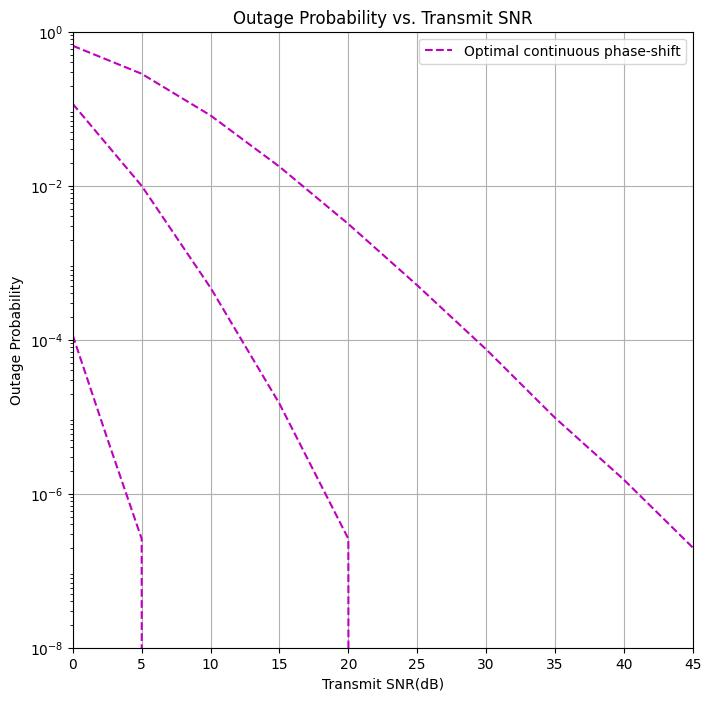
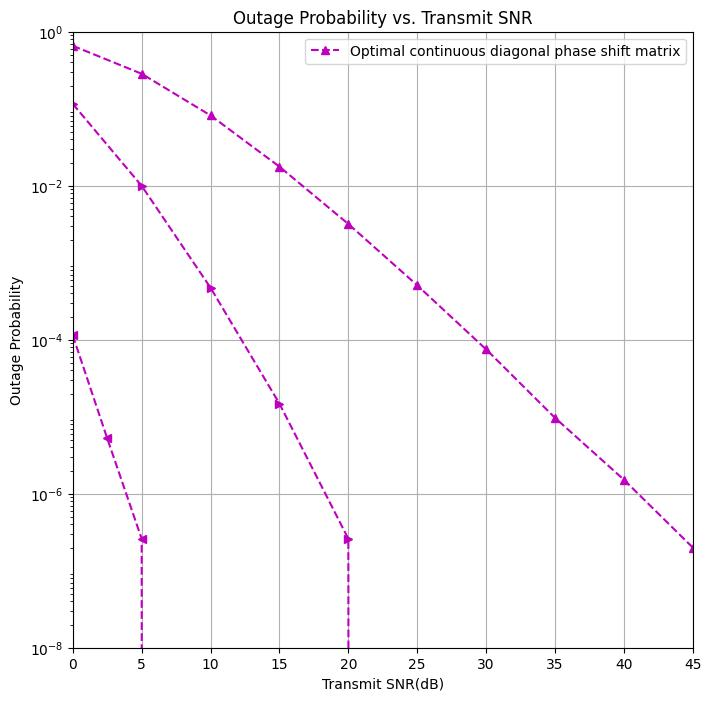
2024.08.13(THU)_v1

diff --git a/SystemModel.py b/SystemModel.py
@@ -29,15 +29,6 @@ def ReceivedSignal(P, eta, h_SI, Phi, h_ID, x_s, w_D):
     return ReceivedSignal
 
 
-def phase_error_generator(N, L):
-    # Phase errors uniformly distributed in [-pi/L, pi/L]
-    phase_errors = np.random.uniform(-np.pi / L, np.pi / L, N)
-
-    Phi = np.diag(np.exp(1j * phase_errors))
-
-    return phase_errors, Phi
-
-
 def SNR_calc(P, delta, eta, h_SI, Phi, h_ID, Omega_S, Omega_I):
     rho = P / delta ** 2
     g_n = np.abs(h_SI * h_ID) @ Phi / np.sqrt(Omega_S * Omega_I)  # normalized channel coefficient
@@ -47,7 +38,15 @@ def SNR_calc(P, delta, eta, h_SI, Phi, h_ID, Omega_S, Omega_I):
     return g_n, ReceivedSNR
 
 
-'''
+def get_phase_error(N, L):
+    # Phase errors uniformly distributed in [-pi/L, pi/L]
+    phase_errors = np.random.uniform(-np.pi / L, np.pi / L, N)
+
+    Phi = np.diag(np.exp(1j * phase_errors))
+
+    return phase_errors, Phi
+
+
 def cdf_gn_squared(x):
     if x <= 0:
         return 0.0
@@ -56,10 +55,9 @@ def cdf_gn_squared(x):
         return - x * np.log(x)  # When the x value is almost 0
     else:
         return 1 - 2 * np.sqrt(x) * kn(1, 2 * np.sqrt(x))
-'''
 
 
-def outage_probability(L, N, P, delta, eta, Omega_S, Omega_I, threshold, rho):
+def sc_outage_probability(L, N, P, delta, eta, Omega_S, Omega_I, threshold, rho):
     prob_count = 0
 
     num_simulations = int(1e+5)
@@ -68,7 +66,7 @@ def outage_probability(L, N, P, delta, eta, Omega_S, Omega_I, threshold, rho):
         pbar.set_description(f"Outage simulation when L={L} N={N}")
         # 변수 초기화
         h_SI, h_ID, _, _ = init_system(N, Omega_S, Omega_I, delta)
-        _, Phi = phase_error_generator(N, L)
+        _, Phi = get_phase_error(N, L)
         g_n, _ = SNR_calc(P, delta, eta, h_SI, Phi, h_ID, Omega_S, Omega_I)
 
         G_N = np.sum(g_n)
@@ -106,35 +104,40 @@ def opt_sc_outage_probability(N, P, delta, eta, Omega_S, Omega_I, threshold, rho
     return P_G_N
 
 
-def calc_opt_fc_phase(h_SI, h_ID):
-    h_SI = h_SI / np.linalg.norm(h_SI)
-    h_ID = h_ID / np.linalg.norm(h_ID)
+'''
+The above part is implemented according to the reference.
 
-    S = np.outer(h_ID.conjugate().T, h_SI.conjugate().T) + np.outer(h_SI.conjugate(), h_ID.conjugate())
-
-    # Takagi factorization
-    a = svd(S)
-
-    Q = a[0]
-    Sigma = a[1]
-    QT = a[2].T
-
-    Phi = Q @ QT
-
-    return Phi
+Assuming we know the channel, we can find the optimal phase, and map this optimal phase to the quantized phase level.
+'''
 
 
-def opt_fc_outage_probability(N, P, delta, eta, Omega_S, Omega_I, threshold, rho):
+def get_phase(L, N, h_SI, h_ID):
+    quant_levels = np.linspace(0, 2 * np.pi, L, endpoint=False)
+
+    opt_phi = -np.angle(h_SI * h_ID)
+    opt_phi = np.mod(opt_phi, 2 * np.pi)
+
+    phi_quantized = np.zeros_like(opt_phi)  # 같은 크기의 zero matrix 생성
+    for n in range(N):
+        # Find the closest quantization level
+        idx = np.argmin(np.abs(quant_levels - opt_phi[n]))
+        phi_quantized[n] = quant_levels[idx]
+
+    Phi = np.diag(np.exp(1j * phi_quantized))
+
+    return opt_phi, Phi
+
+
+def outage_probability(L, N, P, delta, eta, Omega_S, Omega_I, threshold, rho):
     prob_count = 0
 
     num_simulations = int(1e+5)
     pbar = tqdm(range(num_simulations))
-    for i in pbar:
-        pbar.set_description(f"Outage simulation when N={N}")
+    for _ in pbar:
+        pbar.set_description(f"Outage simulation when L={L} N={N}")
         # 변수 초기화
         h_SI, h_ID, _, _ = init_system(N, Omega_S, Omega_I, delta)
-        # Phi = calc_opt_fc_phase(h_SI, h_ID)
-        Phi = np.exp(1j * np.zeros(N * N)).reshape(N, N)
+        _, Phi = get_phase(L, N, h_SI, h_ID)
         g_n, _ = SNR_calc(P, delta, eta, h_SI, Phi, h_ID, Omega_S, Omega_I)
 
         G_N = np.sum(g_n)
@@ -145,5 +148,28 @@ def opt_fc_outage_probability(N, P, delta, eta, Omega_S, Omega_I, threshold, rho
 
     # Outage probability
     P_G_N = prob_count / num_simulations
+    return P_G_N
 
+
+def opt_outage_probability(N, P, delta, eta, Omega_S, Omega_I, threshold, rho):
+    prob_count = 0
+
+    num_simulations = int(1e+5)
+    pbar = tqdm(range(num_simulations))
+    for _ in pbar:
+        pbar.set_description(f"Outage simulation when N={N}")
+        # 변수 초기화
+        h_SI, h_ID, _, _ = init_system(N, Omega_S, Omega_I, delta)
+        opt_phi = -np.angle(h_SI * h_ID)
+        opt_phi = np.mod(opt_phi, 2 * np.pi)
+        g_n, _ = SNR_calc(P, delta, eta, h_SI, opt_phi, h_ID, Omega_S, Omega_I)
+
+        G_N = np.sum(g_n)
+        G_N_sq = np.abs(G_N) ** 2
+
+        if G_N_sq < threshold / rho:
+            prob_count += 1
+
+    # Outage probability
+    P_G_N = prob_count / num_simulations
     return P_G_N

diff --git a/main.py b/main.py
@@ -6,7 +6,8 @@ from SystemModel import *
 from reproduce import *
 from simulations import *
 
-'''********************* hyperparameter  *********************'''
+'''********************* Single-Connected  *********************'''
+'''********************** hyperparameter  **********************'''
 Omega_S = 1  # Variance of h_SI (channel for Source - RIS)
 Omega_I = 0.5  # Variance of h_ID (channel for RIS-Destination)
 P = 1  # Transmit power
@@ -17,27 +18,59 @@ R0 = 1  # data rate in bits per channel use(BPCU)
 epsilon_0 = (2 ** R0 - 1) / (eta ** 2 * Omega_S * Omega_I)
 
 
-'''********************* Run  *********************'''
+'''**************************** Run  ***************************'''
 # outage_prob_simulation(Omega_S, Omega_I, P, eta, delta, epsilon_0)
 
 # opt_sc_outage_prob_simulation(Omega_S, Omega_I, P, eta, delta, epsilon_0)
-
 # fig_num = 2
 # outage_prob_plot(fig_num)
 
 
-
 rho_values = np.logspace(0, 4.5, 10)
+narrow_rho_values = np.logspace(0, 2.25, 10)
 
-opt_fc_P_out_values_4 = np.array(
-    [opt_fc_outage_probability(4, P, delta, eta, Omega_S, Omega_I, epsilon_0, rho) for rho in rho_values])
-opt_P_out_values_4 = np.load(f"./Curves/SC_opt_outage_prob_4.npy")
+P_out_values_3_2 = np.array(
+    [outage_probability(4, 2, P, delta, eta, Omega_S, Omega_I, epsilon_0, rho) for rho in rho_values])
+P_out_values_3_4 = np.array(
+    [outage_probability(4, 4, P, delta, eta, Omega_S, Omega_I, epsilon_0, rho) for rho in rho_values])
+# N = 8 이상 일 때는 outage  prob이 15dB 근처에서 0에 수렴함. -> rho values 세분화
+P_out_values_3_8 = np.array(
+    [outage_probability(4, 8, P, delta, eta, Omega_S, Omega_I, epsilon_0, rho) for rho in np.logspace(0, 2.25, 10)])
+
+P_out_values_2_2 = np.array(
+    [outage_probability(8, 2, P, delta, eta, Omega_S, Omega_I, epsilon_0, rho) for rho in rho_values])
+P_out_values_2_4 = np.array(
+    [outage_probability(8, 4, P, delta, eta, Omega_S, Omega_I, epsilon_0, rho) for rho in rho_values])
+P_out_values_2_8 = np.array(
+    [outage_probability(8, 8, P, delta, eta, Omega_S, Omega_I, epsilon_0, rho) for rho in np.logspace(0, 2.25, 10)])
+
+
+opt_P_out_values_2 = np.array(
+    [opt_outage_probability(2, P, delta, eta, Omega_S, Omega_I, epsilon_0, rho) for rho in rho_values])
+opt_P_out_values_4 = np.array(
+    [opt_outage_probability(4, P, delta, eta, Omega_S, Omega_I, epsilon_0, rho) for rho in rho_values])
+# N = 8 이상 일 때는 outage  prob이 15dB 근처에서 0에 수렴함. -> rho values 세분화
+opt_P_out_values_8 = np.array(
+    [opt_outage_probability(8, P, delta, eta, Omega_S, Omega_I, epsilon_0, rho) for rho in narrow_rho_values])
+
 
 plt.figure(figsize=(8, 8))
 plt.title('Outage Probability vs. Transmit SNR')
 
-plt.plot(10 * np.log10(rho_values), opt_fc_P_out_values_4, 'rs-', label=f'Fully-connected Outage Probability with N=4')
-plt.plot(10 * np.log10(rho_values), opt_P_out_values_4[1], 'b--', label=f'Single-connected Outage Probability')
+plt.plot(10 * np.log10(rho_values), P_out_values_3_2, 'r^--',
+         label=f'L=3')
+plt.plot(10 * np.log10(rho_values), P_out_values_3_4, 'r>--')
+plt.plot(10 * np.log10(narrow_rho_values), P_out_values_3_8, 'r<--')
+
+plt.plot(10 * np.log10(rho_values), P_out_values_2_2, 'b^--',
+         label=f'L=2')
+plt.plot(10 * np.log10(rho_values), P_out_values_2_4, 'b>--')
+plt.plot(10 * np.log10(narrow_rho_values), P_out_values_2_8, 'b<--')
+
+plt.plot(10 * np.log10(rho_values), opt_P_out_values_2, 'y^--',
+         label=f'opt')
+plt.plot(10 * np.log10(rho_values), opt_P_out_values_4, 'y>--')
+plt.plot(10 * np.log10(narrow_rho_values), opt_P_out_values_8, 'y<--')
 
 plt.yscale('log', base=10)
 plt.yticks([10 ** -8, 10 ** -6, 10 ** -4, 10 ** -2, 10 ** 0])
@@ -47,5 +80,16 @@ plt.xlabel('Transmit SNR(dB)')
 plt.ylabel('Outage Probability')
 plt.legend()
 plt.grid(True)
-plt.show()
 
+# save the figure
+fig_dir = f"./Figures"
+
+if not os.path.exists(fig_dir):
+    os.makedirs(fig_dir)
+
+save_name = f"outage_Prob_custom.jpg"
+fig_dir = f"{fig_dir}/{save_name}"
+
+plt.savefig(f"{fig_dir}", bbox_inchesbbox_inches='tight')
+
+plt.show()

diff --git a/reproduce.py b/reproduce.py
@@ -3,7 +3,7 @@ import matplotlib.pyplot as plt
 import os
 
 
-# Add slopes N and (N+1)/2
+# Add slopes N
 def plot_slope(N, x_range, y_intercept, label):
     x = np.array(x_range)
     y_N = 10 ** ((-x * N) / 10 + y_intercept)
@@ -67,18 +67,17 @@ def outage_prob_plot(fig_num):
     elif fig_num == 2:
         fig_name = "The outage probability with optimal phase shift"
 
-        opt_P_out_values_2 = np.load(f"./Curves/SC_opt_outage_prob_2.npy")
-        opt_P_out_values_4 = np.load(f"./Curves/SC_opt_outage_prob_4.npy")
-        opt_P_out_values_8 = np.load(f"./Curves/SC_opt_outage_prob_8.npy")
+        opt_sc_P_out_values_2 = np.load(f"./Curves/SC_opt_outage_prob_2.npy")
+        opt_sc_P_out_values_4 = np.load(f"./Curves/SC_opt_outage_prob_4.npy")
+        opt_sc_P_out_values_8 = np.load(f"./Curves/SC_opt_outage_prob_8.npy")
 
         plt.figure(figsize=(8, 8))
         plt.title('Outage Probability vs. Transmit SNR')
 
-        plt.plot(10 * np.log10(opt_P_out_values_2[0]), opt_P_out_values_2[1], 'm^--',
-                 label=f'Optimal continuous phase-shift')
-        plt.plot(10 * np.log10(opt_P_out_values_4[0]), opt_P_out_values_4[1], 'm^--')
-        plt.plot(10 * np.log10(opt_P_out_values_8[0]), opt_P_out_values_8[1], 'm^--')
-
+        plt.plot(10 * np.log10(opt_sc_P_out_values_2[0]), opt_sc_P_out_values_2[1], 'm^--',
+                 label=f'Optimal continuous diagonal phase shift matrix')
+        plt.plot(10 * np.log10(opt_sc_P_out_values_4[0]), opt_sc_P_out_values_4[1], 'm>--')
+        plt.plot(10 * np.log10(opt_sc_P_out_values_8[0]), opt_sc_P_out_values_8[1], 'm<--')
 
         plt.yscale('log', base=10)
         plt.yticks([10 ** -8, 10 ** -6, 10 ** -4, 10 ** -2, 10 ** 0])
@@ -101,19 +100,31 @@ def outage_prob_plot(fig_num):
         plt.savefig(f"{fig_dir}", bbox_inches='tight')
         plt.show()
     elif fig_num == 3:
-        fig_name = "The outage probability with optimal fc phase shift"
+        fig_name = "Custom"
 
-        opt_P_out_values_2 = np.load(f"./Curves/FC_opt_outage_prob_2.npy")
-        opt_P_out_values_4 = np.load(f"./Curves/FC_opt_outage_prob_4.npy")
-        opt_P_out_values_8 = np.load(f"./Curves/FC_opt_outage_prob_8.npy")
+        P_out_values_3_2 = np.load(f"./Curves/outage_prob_3_2.npy")
+        P_out_values_3_4 = np.load(f"./Curves/outage_prob_3_4.npy")
+        P_out_values_3_8 = np.load(f"./Curves/outage_prob_3_8.npy")
+
+        P_out_values_2_2 = np.load(f"./Curves/outage_prob_2_2.npy")
+        P_out_values_2_4 = np.load(f"./Curves/outage_prob_2_4.npy")
+        P_out_values_2_8 = np.load(f"./Curves/outage_prob_2_8.npy")
+
+        opt_sc_P_out_values_2 = np.load(f"./Curves/SC_opt_outage_prob_2.npy")
+        opt_sc_P_out_values_4 = np.load(f"./Curves/SC_opt_outage_prob_4.npy")
+        opt_sc_P_out_values_8 = np.load(f"./Curves/SC_opt_outage_prob_8.npy")
+
+        opt_fc_P_out_values_2 = np.load(f"./Curves/FC_opt_outage_prob_2.npy")
+        opt_fc_P_out_values_4 = np.load(f"./Curves/FC_opt_outage_prob_4.npy")
+        opt_fc_P_out_values_8 = np.load(f"./Curves/FC_opt_outage_prob_8.npy")
 
         plt.figure(figsize=(8, 8))
         plt.title('Outage Probability vs. Transmit SNR')
 
-        plt.plot(10 * np.log10(opt_P_out_values_2[0]), opt_P_out_values_2[1], 'm^--',
-                 label=f'Optimal continuous phase-shift')
-        plt.plot(10 * np.log10(opt_P_out_values_4[0]), opt_P_out_values_4[1], 'm^--')
-        plt.plot(10 * np.log10(opt_P_out_values_8[0]), opt_P_out_values_8[1], 'm^--')
+        plt.plot(10 * np.log10(opt_fc_P_out_values_2[0]), opt_fc_P_out_values_2[1], 'y^--',
+                 label=f'')
+        plt.plot(10 * np.log10(opt_fc_P_out_values_4[0]), opt_fc_P_out_values_4[1], 'y>--')
+        plt.plot(10 * np.log10(opt_fc_P_out_values_8[0]), opt_fc_P_out_values_8[1], 'y<--')
 
         plt.yscale('log', base=10)
         plt.yticks([10 ** -8, 10 ** -6, 10 ** -4, 10 ** -2, 10 ** 0])

diff --git a/simulations.py b/simulations.py
@@ -4,7 +4,7 @@ import os
 from SystemModel import *
 
 
-def outage_prob_simulation(Omega_S, Omega_I, P, eta, delta, epsilon_0):
+def sc_outage_prob_simulation(Omega_S, Omega_I, P, eta, delta, epsilon_0):
     # rho values to infinity
     rho_values = np.logspace(0, 4.5, 10)
     narrow_rho_values = np.logspace(0, 2.25, 10)
@@ -24,11 +24,11 @@ def outage_prob_simulation(Omega_S, Omega_I, P, eta, delta, epsilon_0):
     L = 2
 
     P_out_values_2_2 = np.array(
-        [outage_probability(L, 2, P, delta, eta, Omega_S, Omega_I, epsilon_0, rho) for rho in rho_values])
+        [sc_outage_probability(L, 2, P, delta, eta, Omega_S, Omega_I, epsilon_0, rho) for rho in rho_values])
     P_out_values_2_4 = np.array(
-        [outage_probability(L, 4, P, delta, eta, Omega_S, Omega_I, epsilon_0, rho) for rho in rho_values])
+        [sc_outage_probability(L, 4, P, delta, eta, Omega_S, Omega_I, epsilon_0, rho) for rho in rho_values])
     P_out_values_2_8 = np.array(
-        [outage_probability(L, 8, P, delta, eta, Omega_S, Omega_I, epsilon_0, rho) for rho in np.logspace(0, 2.25, 10)])
+        [sc_outage_probability(L, 8, P, delta, eta, Omega_S, Omega_I, epsilon_0, rho) for rho in np.logspace(0, 2.25, 10)])
 
     # curve 저장
     np.save(f"./Curves/outage_prob_{3}_{2}", np.array([rho_values, P_out_values_3_2]))
@@ -38,16 +38,6 @@ def outage_prob_simulation(Omega_S, Omega_I, P, eta, delta, epsilon_0):
     np.save(f"./Curves/outage_prob_{2}_{2}", np.array([rho_values, P_out_values_2_2]))
     np.save(f"./Curves/outage_prob_{2}_{4}", np.array([rho_values, P_out_values_2_4]))
     np.save(f"./Curves/outage_prob_{2}_{8}", np.array([narrow_rho_values, P_out_values_2_8]))
-
-
-'''
-# print(narrow_rho_values, 10*np.log10(narrow_rho_values))
-
-# print(outage_probability(2, 8, P, delta, eta, Omega_S, Omega_I, epsilon_0,  31.6227766))
-  L = 2, N  = 8, Transmit SNR(rho) = 15dB (linear scale : 31.6227766)
-  --> when iter 2e+7, result is 0.0
-  --> when iter 5e+7, result is 4e-8
-'''
 
 
 def opt_sc_outage_prob_simulation(Omega_S, Omega_I, P, eta, delta, epsilon_0):
@@ -67,24 +57,3 @@ def opt_sc_outage_prob_simulation(Omega_S, Omega_I, P, eta, delta, epsilon_0):
     np.save(f"./Curves/SC_opt_outage_prob_{2}", np.array([rho_values, opt_sc_P_out_values_2]))
     np.save(f"./Curves/SC_opt_outage_prob_{4}", np.array([rho_values, opt_sc_P_out_values_4]))
     np.save(f"./Curves/SC_opt_outage_prob_{8}", np.array([narrow_rho_values, opt_sc_P_out_values_8]))
-
-
-def opt_fc_outage_prob_simulation(Omega_S, Omega_I, P, eta, delta, epsilon_0):
-    # rho values to infinity
-    rho_values = np.logspace(0, 4.5, 10)
-    narrow_rho_values = np.logspace(0, 2.25, 10)
-
-    opt_fc_P_out_values_2 = np.array(
-        [opt_fc_outage_probability(2, P, delta, eta, Omega_S, Omega_I, epsilon_0, rho) for rho in rho_values])
-    opt_fc_P_out_values_4 = np.array(
-        [opt_fc_outage_probability(4, P, delta, eta, Omega_S, Omega_I, epsilon_0, rho) for rho in rho_values])
-    # N = 8 이상 일 때는 outage  prob이 15dB 근처에서 0에 수렴함. -> rho values 세분화
-    opt_fc_P_out_values_8 = np.array(
-        [opt_fc_outage_probability(8, P, delta, eta, Omega_S, Omega_I, epsilon_0, rho) for rho in narrow_rho_values])
-
-    # curve 저장
-    np.save(f"./Curves/FC_opt_outage_prob_{2}", np.array([rho_values, opt_fc_P_out_values_2]))
-    np.save(f"./Curves/FC_opt_outage_prob_{4}", np.array([rho_values, opt_fc_P_out_values_4]))
-    np.save(f"./Curves/FC_opt_outage_prob_{8}", np.array([narrow_rho_values, opt_fc_P_out_values_8]))
-
-
